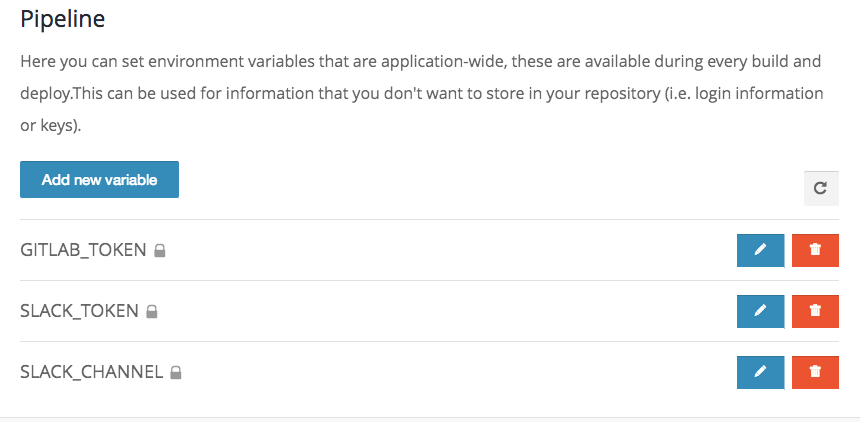
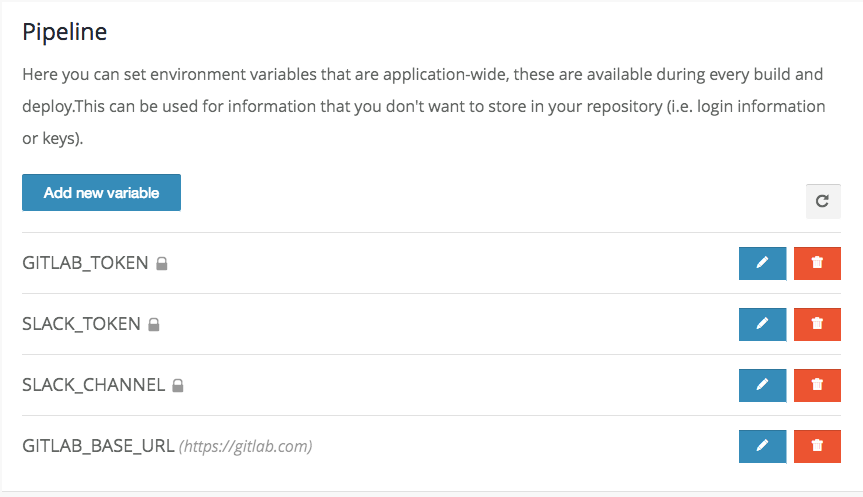
document: added env

diff --git a/README.md b/README.md
@@ -26,10 +26,9 @@ PostMessage Slack.
 
 `~/.bash_profile`
 
-`{}`は、自分の設定
-
 ```sh
 # personal-dev
+export GITLAB_BASE_URL=http://gitlab.com
 export GITLAB_TOKEN={YOUR_GITLAB_TOKEN}
 export SLACK_TOKEN={YOUR_SLACK_TOKEN}
 export SLACK_CHANNEL={TARGET_SLACK_CHANNEL}
